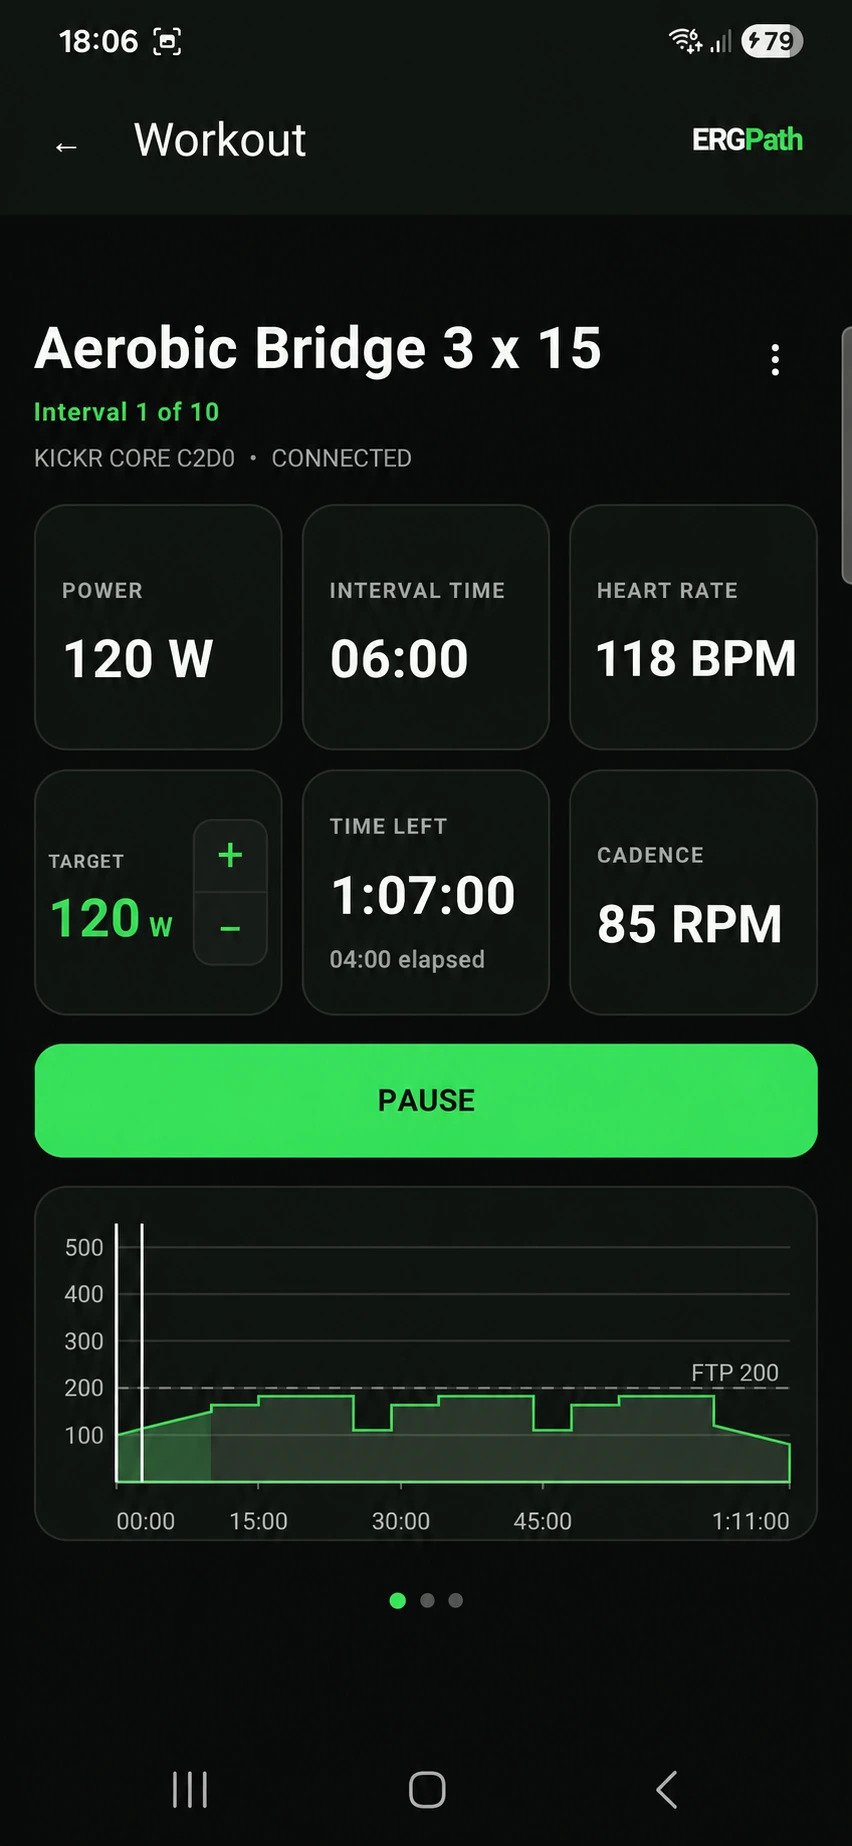
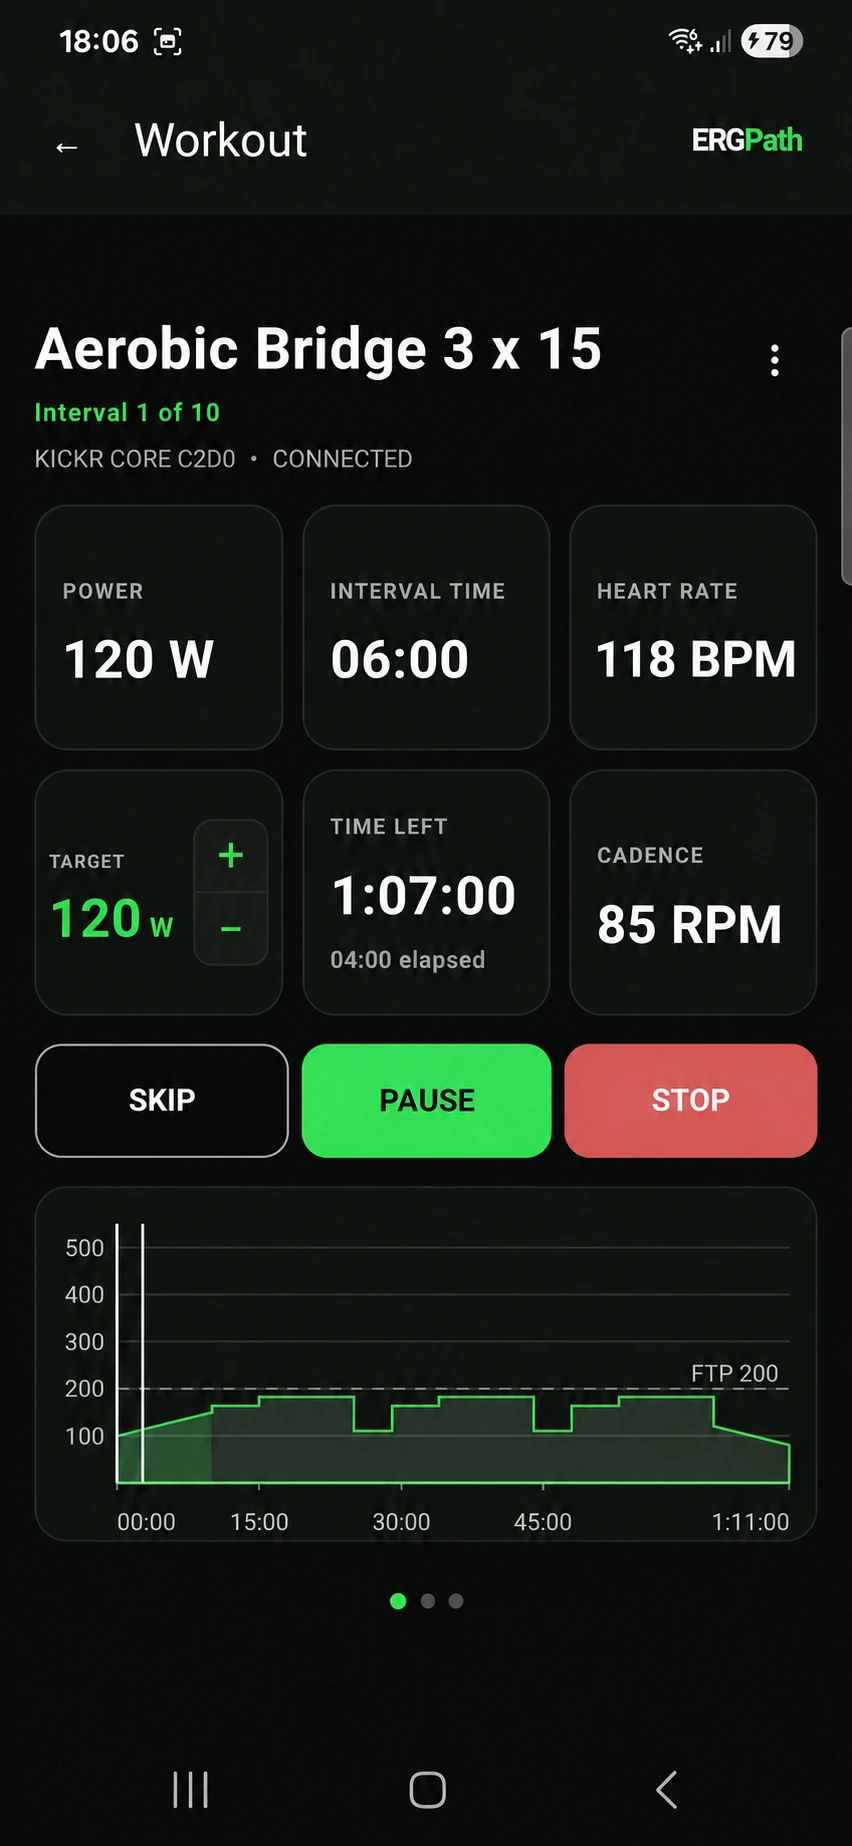
Add files via upload

diff --git a/index.html b/index.html
@@ -4,7 +4,7 @@
 @media(max-width:950px){nav{gap:15px}.hero-grid{gap:30px}.hero{padding:55px 0}h1{font-size:65px}.hero-shot{width:280px}.three{gap:18px}.plans-grid{grid-template-columns:repeat(2,minmax(0,1fr))}.ent-top,.split{gap:40px}.faq{gap:40px}.support-card{padding:23px}.support-grid{gap:17px}}
 @media(max-width:680px){.container{width:calc(100% - 36px)}.nav{min-height:66px}.menu-toggle{display:block}nav{display:none;position:absolute;top:66px;left:0;right:0;padding:21px;background:#101a13;border-bottom:1px solid var(--border);flex-direction:column;align-items:stretch;gap:18px}nav.open{display:flex}.hero-grid{grid-template-columns:1fr;gap:42px}.hero{padding:42px 0 38px}.hero-copy{text-align:center}.availability{margin-bottom:23px}h1{font-size:clamp(55px,14vw,78px);letter-spacing:-3px}.lead{font-size:16px;margin:auto;max-width:440px}.actions{justify-content:center}.hero-note{font-size:11px}.hero-shot{width:276px}.strip-inner{grid-template-columns:repeat(2,1fr);row-gap:24px}.strip-item:nth-child(2){border:0}.strip-item strong{font-size:17px}.strip-item{font-size:11px;padding:0 8px}.content,section.content{padding:62px 0}h2{font-size:35px;letter-spacing:-1px}.section-head p,.section-copy>p{font-size:16px}.three{grid-template-columns:1fr;gap:44px}.showcase-card{display:grid;grid-template-columns:1fr;max-width:400px;margin:auto}.showcase-card .shot{width:100%;max-width:290px}.showcase-card .capture{max-height:none}.showcase-card h3,.showcase-card>p{text-align:center}.showcase-card h3{margin-top:23px}.showcase-card>p{margin-top:0}.ent-top,.split,.faq{grid-template-columns:1fr;gap:25px}.ent-top{margin-bottom:25px}.ent-points{flex-direction:column;gap:10px;font-size:13px}.plans-head{display:block}.plan-total{display:block;margin-top:14px}.plans-grid{grid-template-columns:1fr;gap:22px}.plan>img{aspect-ratio:1.9}.plan h3{min-height:0}.plan-desc{min-height:0}.plan-body{padding:23px}.filters{gap:7px;margin:24px 0}.filter{font-size:11px;padding:8px 12px}.support-grid{grid-template-columns:1fr}.support-card{padding:28px}.performance-image{order:2}.section-copy{order:1}.launch{padding:43px 22px}.footer-inner{flex-direction:column;align-items:flex-start;gap:12px}.faq .section-head{margin-bottom:0}}
 @media(prefers-reduced-motion:reduce){html{scroll-behavior:auto}*{transition:none!important}.hero-shot{transform:none!important}}
-.screen-frame{cursor:default}.hero-shot,.hero-shot:hover{transform:rotate(3deg)!important;transition:none!important}.performance-image{background:#0b120d;border:1px solid #3b4f40;border-radius:18px;overflow:hidden}.performance-image .screen-frame{border:0;border-radius:0;box-shadow:none}.progress-charts{display:grid;grid-template-columns:1fr 1fr;gap:12px;padding:14px}.progress-chart{min-width:0;border:1px solid #293a2f;border-radius:13px;background:#101711;padding:12px 8px 3px}.chart-heading{display:flex;align-items:center;justify-content:space-between;padding:0 6px;font-size:10px;color:#b2c1b7;gap:6px;letter-spacing:.4px}.chart-heading span{font-size:10px;color:#90aa99;letter-spacing:0}.progress-chart svg{display:block;width:100%;height:auto}.performance-image .capture{border-radius:0}.screen-frame img{pointer-events:none}@media(max-width:680px){.progress-charts{grid-template-columns:1fr}.chart-heading{font-size:12px}.progress-chart{padding:16px 10px 3px}}.strava-section{border-bottom:1px solid var(--border)}.strava-shot{width:100%;max-width:460px;justify-self:center}.strava-shot .screen-frame{box-shadow:none;border:0;background:transparent;border-radius:18px}.hero-media:before{content:none!important;display:none!important}.showcase-card .shot{--screen-height:clamp(240px,36vw,420px);height:var(--screen-height);width:calc(var(--screen-height)*var(--screen-ratio));max-width:100%;margin:0 auto}.showcase-card .screen-frame{height:100%}.showcase-card .capture{height:100%;max-height:none}.showcase-card h3{min-height:2.5em}@media(max-width:680px){.showcase-card .shot{--screen-height:min(420px,115vw)}.showcase-card h3{min-height:0}}</style></head><body><a class="skip" href="#main">Skip to content</a><header><div class="container nav"><a href="#" class="logo" aria-label="ERGPath home">ERG<span>Path</span></a><button class="menu-toggle" aria-expanded="false" aria-controls="navigation">MENU</button><nav id="navigation" aria-label="Main navigation"><a href="#experience">The app</a><a href="#entertainment">Entertainment</a><a href="#plans">Training plans</a><a href="#progress">Progress</a><a class="nav-cta" href="#download">COMING SOON ↗</a></nav></div></header><main id="main">
+.screen-frame{cursor:default}.hero-shot,.hero-shot:hover{transform:none!important;transition:none!important}.performance-image{background:#0b120d;border:1px solid #3b4f40;border-radius:18px;overflow:hidden}.performance-image .screen-frame{border:0;border-radius:0;box-shadow:none}.progress-charts{display:grid;grid-template-columns:1fr 1fr;gap:12px;padding:14px}.progress-chart{min-width:0;border:1px solid #293a2f;border-radius:13px;background:#101711;padding:12px 8px 3px}.chart-heading{display:flex;align-items:center;justify-content:space-between;padding:0 6px;font-size:10px;color:#b2c1b7;gap:6px;letter-spacing:.4px}.chart-heading span{font-size:10px;color:#90aa99;letter-spacing:0}.progress-chart svg{display:block;width:100%;height:auto}.performance-image .capture{border-radius:0}.screen-frame img{pointer-events:none}@media(max-width:680px){.progress-charts{grid-template-columns:1fr}.chart-heading{font-size:12px}.progress-chart{padding:16px 10px 3px}}.strava-section{border-bottom:1px solid var(--border)}.strava-shot{width:100%;max-width:460px;justify-self:center}.strava-shot .screen-frame{box-shadow:none;border:0;background:transparent;border-radius:18px}.hero-media:before{content:none!important;display:none!important}.showcase-card .shot{--screen-height:clamp(240px,36vw,420px);height:var(--screen-height);width:calc(var(--screen-height)*var(--screen-ratio));max-width:100%;margin:0 auto}.showcase-card .screen-frame{height:100%}.showcase-card .capture{height:100%;max-height:none}.showcase-card h3{min-height:2.5em}@media(max-width:680px){.showcase-card .shot{--screen-height:min(420px,115vw)}.showcase-card h3{min-height:0}}</style></head><body><a class="skip" href="#main">Skip to content</a><header><div class="container nav"><a href="#" class="logo" aria-label="ERGPath home">ERG<span>Path</span></a><button class="menu-toggle" aria-expanded="false" aria-controls="navigation">MENU</button><nav id="navigation" aria-label="Main navigation"><a href="#experience">The app</a><a href="#entertainment">Entertainment</a><a href="#plans">Training plans</a><a href="#progress">Progress</a><a class="nav-cta" href="#download">COMING SOON ↗</a></nav></div></header><main id="main">
 <section class="hero"><div class="container hero-grid"><div class="hero-copy"><div class="availability">FOR ANDROID · COMING SOON</div><h1>RIDE.<br>TRAIN.<br><span>PROGRESS.</span></h1><p class="lead">Purposeful training. Your kind of ride.<br>Structured workouts, smart trainer control and a plan for what comes next.</p><div class="actions"><a class="btn" href="#experience">EXPLORE ERGPATH <span>↗</span></a><a class="btn secondary" href="#plans">FIND YOUR PLAN</a></div><p class="hero-note">No virtual world required. Just you, your bike and your goals.</p></div><div class="hero-media"><figure class="shot hero-shot"><div class="screen-frame"><span class="capture" style="aspect-ratio:709/1292"><img src="assets/workout.webp" alt="ERGPath workout dashboard with illustrative active ride readings: 120 watts, 118 BPM, 85 RPM and four minutes elapsed" width="709" height="1536" loading="lazy" style="transform:translateY(-5.07812%)"></span></div></figure></div></div></section>
 <div class="strip"><div class="container strip-inner"><div class="strip-item"><strong>12 training plans</strong>A goal for every kind of rider</div><div class="strip-item"><strong>Structured workouts</strong>From endurance to hard intervals</div><div class="strip-item"><strong>Entertainment Mode</strong>Your workout. Your screen.</div><div class="strip-item"><strong>Track your progress</strong>See the work adding up</div></div></div>
 <section id="experience" class="content"><div class="container"><div class="section-head"><p class="eyebrow">A clearer way to train</p><h2>From “what’s next?”<br>to ready to ride.</h2><p>Choose a session, see it on your calendar and follow every interval. ERGPath keeps the details clear so you can focus on turning the pedals.</p></div><div class="three"><article class="showcase-card"><figure class="shot" style="--screen-ratio:0.73919523"><div class="screen-frame"><span class="capture" style="aspect-ratio:992/1342"><img src="assets/calendar.webp" alt="ERGPath calendar with a scheduled Sweet Foundation workout" width="992" height="1586" loading="lazy" style="transform:translateY(-3.656999%)"></span></div></figure><h3>A place for every ride.</h3><p>See scheduled sessions, review workout details and move a ride when life gets in the way.</p></article><article class="showcase-card"><figure class="shot" style="--screen-ratio:0.71641791"><div class="screen-frame"><span class="capture" style="aspect-ratio:1200/1675"><img src="assets/library.webp" alt="ERGPath workout categories from Endurance to Recovery" width="1200" height="1920" loading="lazy" style="transform:translateY(-3.64583%)"></span></div></figure><h3>Find the right session.</h3><p>Choose from the workout library, create your own sessions or upload your own workout files.</p></article><article class="showcase-card"><figure class="shot" style="--screen-ratio:0.66666667"><div class="screen-frame"><span class="capture"><img src="assets/just-ride.webp" alt="Just Ride with a connected trainer and heart-rate monitor, showing illustrative ride statistics" loading="lazy"></span></div></figure><h3>Your ride. Your pace.</h3><p>Want to ride without a structured workout? Set your target power, adjust it as you go and follow your effort with Just Ride.</p></article></div></div></section>
